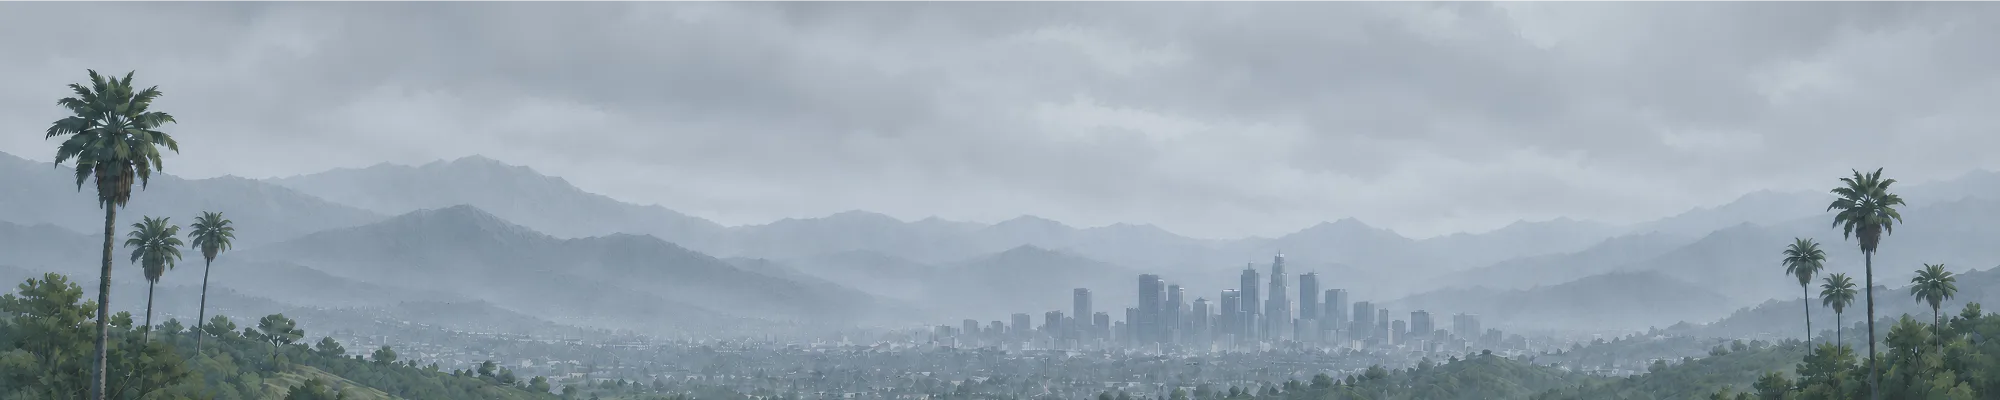
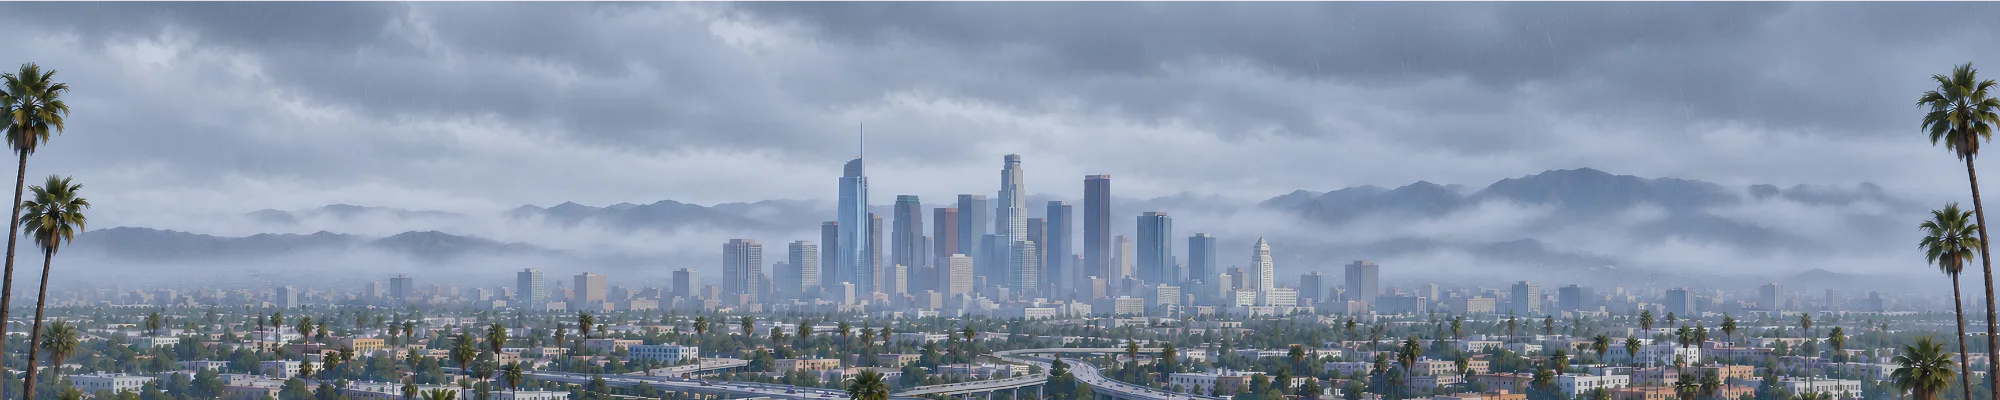
A dry grey day is Cloudy, not Rain; and a second Los Angeles pack that moves
MASTHEAD-CLOUDY-1 + MASTHEAD-LOSANGELES-2 (Owner, 2026-09-05).

The ninth scene. One hour in three in New York and San Francisco, one in
five in Los Angeles, is plain overcast with dry streets, and every pack
showed the Rain frame for it: painted wet streets, falling streaks and
lightning every eleven seconds. 'cloudy' is now an optional scene, like
CloudyNight, with a declared fallback to Rain, so a pack without the frame
shows exactly what it showed before. The weather rule splits in two:
overcast and fog are grey but dry (Cloudy by day, CloudyNight after dark);
drizzle, rain, showers, snow and thunder are wet (Rain by day, CloudyNight
after dark). The cloudy-night frame serves both, so the motion layer now
carries one weather fact, whether anything is falling, and after dark the
rain and the bolts run only while it is. The Rain scene is wet by
construction. "Cloudy" and "Overcast" in a filename mean the new scene; no
shipped pack had used either word.

The pack. Nine new 2000x400 frames (Cloudy and CloudyNight join) replace
the seven-frame first pack; old WebPs and archived PNGs removed, new ones
prepared and archived. One viewpoint on all nine: the basin from the
south-west, palms at both edges, downtown with the Wilshire Grand's spire at
x 42.7, the San Gabriels behind, the 110/101 interchange in front. Every
coordinate re-measured; default crop; CloudyNight is the Night drawing.

Night and cloudy night: fifty basin and downtown lights; red beacons on
[…]

diff --git a/src/index.css b/src/index.css
@@ -1907,6 +1907,8 @@ a.doc-file-link:hover { text-decoration: underline; }
 .mast-scene-morning .mast-scenery { --scn-r1: #D8E1F1; --scn-r2: #C2CFE7; --scn-r3: #A8B9D8; --scn-city: #AFC0DA; --scn-palm: #8DA2C2; --scn-lights: 0.1; --scn-stars: 0; }
 .mast-scene-goldenhour .mast-scenery { --scn-r1: #F0D3AC; --scn-r2: #E0B490; --scn-r3: #C2907C; --scn-city: #B08472; --scn-palm: #8A6656; --scn-lights: 0.2; --scn-stars: 0; }
 .mast-scene-rain .mast-scenery { --scn-r1: #CBD2D9; --scn-r2: #B4BDC7; --scn-r3: #97A2AF; --scn-city: #8E99A7; --scn-palm: #76828F; --scn-lights: 0.15; --scn-stars: 0; }
+/* MASTHEAD-CLOUDY-1: a dry overcast day, the rain palette a shade lighter. */
+.mast-scene-cloudy .mast-scenery { --scn-r1: #D2D8DF; --scn-r2: #BCC4CD; --scn-r3: #A0AAB6; --scn-city: #97A1AD; --scn-palm: #7E8A96; --scn-lights: 0.1; --scn-stars: 0; }
 
 /* Sky layers: all stay mounted; the active scene fades its own in. Each
    gradient is weighted center-right and top-right, and the shared mask keeps
@@ -1951,10 +1953,14 @@ a.doc-file-link:hover { text-decoration: underline; }
   background: radial-gradient(720px 300px at 66% 110%, rgba(148,160,176,0.30), transparent 74%),
     linear-gradient(115deg, rgba(238,241,245,0) 32%, rgba(168,178,192,0.34) 100%);
 }
+.mast-sky-cloudy {
+  background: radial-gradient(720px 300px at 66% 110%, rgba(160,170,184,0.26), transparent 74%),
+    linear-gradient(115deg, rgba(240,243,247,0) 32%, rgba(178,188,200,0.30) 100%);
+}
 .mast-scene-day .mast-sky-day, .mast-scene-sunset .mast-sky-sunset,
 .mast-scene-night .mast-sky-night, .mast-scene-dawn .mast-sky-dawn,
 .mast-scene-morning .mast-sky-morning, .mast-scene-goldenhour .mast-sky-goldenhour,
-.mast-scene-rain .mast-sky-rain,
+.mast-scene-rain .mast-sky-rain, .mast-scene-cloudy .mast-sky-cloudy,
 .mast-scene-cloudynight .mast-sky-cloudynight { opacity: 1; }
 
 /* The ridge/skyline/palm art. Same left-quiet mask; fills cross-fade as the
@@ -1998,7 +2004,7 @@ a.doc-file-link:hover { text-decoration: underline; }
 .mast-scene-day .mast-scn-img-day, .mast-scene-sunset .mast-scn-img-sunset,
 .mast-scene-night .mast-scn-img-night, .mast-scene-dawn .mast-scn-img-dawn,
 .mast-scene-morning .mast-scn-img-morning, .mast-scene-rain .mast-scn-img-rain,
-.mast-scene-goldenhour .mast-scn-img-goldenhour,
+.mast-scene-goldenhour .mast-scn-img-goldenhour, .mast-scene-cloudy .mast-scn-img-cloudy,
 .mast-scene-cloudynight .mast-scn-img-cloudynight { opacity: 1; }
 /* Dark page theme: soften the daylight artwork so the card doesn't glow;
    the night image already lives in the theme's register. */
@@ -2069,10 +2075,13 @@ a.doc-file-link:hover { text-decoration: underline; }
   96.0%     { opacity: 0; }
   100%      { opacity: 0; }
 }
+/* MASTHEAD-CLOUDY-1: the cloudy-night frame serves a dry overcast night too,
+   so after dark the storm runs only while the weather is wet (.mast-motion-wet,
+   from the shared weather query). The Rain scene is wet by construction. */
 .mast-scenic.mast-scene-rain .mast-motion-bolt-a,
-.mast-scenic.mast-scene-cloudynight .mast-motion-bolt-a { animation: mast-bolt 11s linear infinite; }
+.mast-scenic.mast-scene-cloudynight .mast-motion-wet .mast-motion-bolt-a { animation: mast-bolt 11s linear infinite; }
 .mast-scenic.mast-scene-rain .mast-motion-bolt-b,
-.mast-scenic.mast-scene-cloudynight .mast-motion-bolt-b { animation: mast-bolt 17s linear 4s infinite; }
+.mast-scenic.mast-scene-cloudynight .mast-motion-wet .mast-motion-bolt-b { animation: mast-bolt 17s linear 4s infinite; }
 
 /* ── SHIMMER. Each glow sits on a light already in the photograph and breathes
    on its own period, which is how haze actually treats distant lights. ── */
@@ -2272,9 +2281,9 @@ a.doc-file-link:hover { text-decoration: underline; }
 }
 @keyframes mast-drop { from { transform: translateY(0); } to { transform: translateY(440px); } }
 .mast-scenic.mast-scene-rain .mast-motion-rain,
-.mast-scenic.mast-scene-cloudynight .mast-motion-rain { opacity: 1; }
+.mast-scenic.mast-scene-cloudynight .mast-motion-wet .mast-motion-rain { opacity: 1; }
 .mast-scenic.mast-scene-rain .mast-motion-drop,
-.mast-scenic.mast-scene-cloudynight .mast-motion-drop {
+.mast-scenic.mast-scene-cloudynight .mast-motion-wet .mast-motion-drop {
   animation: mast-drop var(--dur, 0.9s) linear var(--dl, 0s) infinite;
 }
 
@@ -2300,7 +2309,8 @@ a.doc-file-link:hover { text-decoration: underline; }
   100% { transform: translateX(-13%); opacity: 0.30; }
 }
 .mast-scenic.mast-scene-day .mast-motion-haze,
-.mast-scenic.mast-scene-morning .mast-motion-haze {
+.mast-scenic.mast-scene-morning .mast-motion-haze,
+.mast-scenic.mast-scene-cloudy .mast-motion-haze {
   animation: mast-haze 64s ease-in-out infinite alternate;
 }
 
@@ -2326,11 +2336,13 @@ a.doc-file-link:hover { text-decoration: underline; }
 @keyframes mast-bob  { from { translate: 0 0; } to { translate: 0 2.2px; } }
 .mast-scenic.mast-scene-day .mast-motion-flock,
 .mast-scenic.mast-scene-morning .mast-motion-flock,
+.mast-scenic.mast-scene-cloudy .mast-motion-flock,
 .mast-scenic.mast-scene-dawn .mast-motion-flock {
   animation: mast-fly var(--cycle, 74s) linear infinite;
 }
 .mast-scenic.mast-scene-day .mast-motion-bird,
 .mast-scenic.mast-scene-morning .mast-motion-bird,
+.mast-scenic.mast-scene-cloudy .mast-motion-bird,
 .mast-scenic.mast-scene-dawn .mast-motion-bird {
   animation: mast-flap var(--flap, 0.45s) ease-in-out infinite alternate,
              mast-bob  var(--bob, 2.5s)  ease-in-out infinite alternate;
@@ -2421,7 +2433,8 @@ a.doc-file-link:hover { text-decoration: underline; }
   100% { transform: translateX(-13%); opacity: 0.58; }
 }
 .mast-scenic.mast-scene-day .mast-motion-haze-fog,
-.mast-scenic.mast-scene-morning .mast-motion-haze-fog {
+.mast-scenic.mast-scene-morning .mast-motion-haze-fog,
+.mast-scenic.mast-scene-cloudy .mast-motion-haze-fog {
   animation: mast-fog 64s ease-in-out infinite alternate;
 }
 
@@ -2450,6 +2463,7 @@ a.doc-file-link:hover { text-decoration: underline; }
 .mast-scenic.mast-scene-dawn .mast-motion-ferry,
 .mast-scenic.mast-scene-morning .mast-motion-ferry,
 .mast-scenic.mast-scene-day .mast-motion-ferry,
+.mast-scenic.mast-scene-cloudy .mast-motion-ferry,
 .mast-scenic.mast-scene-goldenhour .mast-motion-ferry,
 .mast-scenic.mast-scene-sunset .mast-motion-ferry,
 .mast-scenic.mast-scene-night .mast-motion-ferry {
@@ -2458,11 +2472,13 @@ a.doc-file-link:hover { text-decoration: underline; }
 .mast-scenic.mast-scene-dawn .mast-motion-ferry-hull,
 .mast-scenic.mast-scene-morning .mast-motion-ferry-hull,
 .mast-scenic.mast-scene-day .mast-motion-ferry-hull,
+.mast-scenic.mast-scene-cloudy .mast-motion-ferry-hull,
 .mast-scenic.mast-scene-goldenhour .mast-motion-ferry-hull,
 .mast-scenic.mast-scene-sunset .mast-motion-ferry-hull,
 .mast-scenic.mast-scene-dawn .mast-motion-ferry-wake,
 .mast-scenic.mast-scene-morning .mast-motion-ferry-wake,
 .mast-scenic.mast-scene-day .mast-motion-ferry-wake,
+.mast-scenic.mast-scene-cloudy .mast-motion-ferry-wake,
 .mast-scenic.mast-scene-goldenhour .mast-motion-ferry-wake,
 .mast-scenic.mast-scene-sunset .mast-motion-ferry-wake { opacity: 1; }
 .mast-scenic.mast-scene-night .mast-motion-ferry-lamp { opacity: 1; }
@@ -2524,6 +2540,7 @@ a.doc-file-link:hover { text-decoration: underline; }
 }
 .mast-scenic.mast-scene-day .mast-motion-steam,
 .mast-scenic.mast-scene-morning .mast-motion-steam,
+.mast-scenic.mast-scene-cloudy .mast-motion-steam,
 .mast-scenic.mast-scene-dawn .mast-motion-steam,
 .mast-scenic.mast-scene-goldenhour .mast-motion-steam,
 .mast-scenic.mast-scene-sunset .mast-motion-steam,
@@ -2991,7 +3008,7 @@ a.doc-file-link:hover { text-decoration: underline; }
 .mast-scene-dawn .wx-mast-art::before, .mast-scene-day .wx-mast-art::before,
 .mast-scene-sunset .wx-mast-art::before, .mast-scene-night .wx-mast-art::before,
 .mast-scene-morning .wx-mast-art::before, .mast-scene-goldenhour .wx-mast-art::before,
-.mast-scene-rain .wx-mast-art::before { opacity: 0; }
+.mast-scene-rain .wx-mast-art::before, .mast-scene-cloudy .wx-mast-art::before { opacity: 0; }
 @media (prefers-reduced-motion: reduce) { .wx-mast-art::before { transition: none; } }
 .wx-mast-temp { font-size: 27px; font-weight: 700; color: var(--chart-ink, #191919); letter-spacing: -0.01em; line-height: 1.05; }
 .wx-mast-cond { font-size: 13px; font-weight: 600; color: var(--chart-ink, #191919); margin-top: 1px; }

diff --git a/src/lib/mastheadCityScenes.js b/src/lib/mastheadCityScenes.js
@@ -24,7 +24,10 @@ const SCENE_WORDS = {
   goldenhour: 'goldenhour', golden: 'goldenhour',
   sunset: 'sunset', dusk: 'sunset', evening: 'sunset',
   night: 'night',
-  rain: 'rain', rainy: 'rain', cloudy: 'rain', overcast: 'rain', storm: 'rain',
+  rain: 'rain', rainy: 'rain', storm: 'rain',
+  // MASTHEAD-CLOUDY-1: a dry overcast day is its own optional scene now.
+  // "Cloudy" used to be a synonym of Rain; no shipped pack used the word.
+  cloudy: 'cloudy', overcast: 'cloudy',
   // MASTHEAD-CLOUDY-NIGHT: the same weather after dark. Listed before nothing
   // else matters, but note the parser tries the LONGEST trailing token run
   // first, so "CloudyNight" resolves here rather than as bare "night".
@@ -42,6 +45,7 @@ const SCENE_WORDS = {
 //   folder   the city's common name, PascalCase, no spaces or punctuation
 //   file     <Folder>_<Scene>.webp
 //   scenes   Dawn · Morning · Day · GoldenHour · Sunset · Night · Rain
+//            (optional: CloudyNight, Cloudy)
 //
 // The canonical key is that folder name lowercased: losangeles, lasvegas,
 // newyork, sanfrancisco, atlanta. It is what CITY_COORDS, CITY_SKY_X and
@@ -359,22 +363,69 @@ export const CITY_MOTION = {
     },
   },
   losangeles: {
-    // The basin is a carpet of light, which is the best possible case for this.
+    // MASTHEAD-LOSANGELES-2 (2026-09-05): the second Los Angeles pack (nine
+    // frames, Cloudy joined) replaced the first, so EVERY coordinate here was
+    // re-measured (scratchpad nymeasure.mjs, gridzoom.py). One viewpoint on all
+    // nine: the basin from the south-west, palms at both edges, downtown at
+    // x 36-66 with the Wilshire Grand's spire at x 42.7, the San Gabriels
+    // behind, the 110/101 interchange in front. Default crop (the spire stays
+    // under the top edge). CloudyNight is the same drawing as Night.
+    //
+    // Night: downtown's windows and crowns, then the basin's carpet of light.
     lights: [
-      [55.5, 90.9], [67.9, 88.5], [76.4, 88.2], [49.1, 98.2], [61.9, 71.4],
-      [46.9, 87.0], [61.9, 89.1], [81.0, 93.5], [58.7, 90.3], [52.3, 88.8],
-      [71.2, 87.9], [67.3, 71.4], [57.5, 68.7], [51.4, 78.5],
-      // MASTHEAD-LOCKSCREEN-1: the left third of the basin carpet.
-      [21.3, 90.9], [26.4, 93.5], [30.0, 87.9], [31.4, 98.5], [34.8, 97.4],
-      [35.1, 86.7], [42.0, 87.3], [45.6, 87.9],
+      [55.4, 34.8], [48.6, 46.6], [42.4, 45.4], [50.3, 32.5], [68.2, 60.5],
+      [50.8, 44.0], [71.5, 67.3], [51.6, 59.0], [36.9, 55.5], [50.0, 67.8],
+      [61.2, 63.7], [53.1, 67.3], [64.2, 67.8], [28.2, 68.1], [53.3, 47.8],
+      [58.9, 70.2], [40.2, 55.2], [55.0, 53.7], [56.1, 64.9], [45.1, 51.6],
+      [48.8, 57.8], [57.8, 46.0], [37.1, 69.0], [57.3, 57.8], [42.1, 55.8],
+      [34.4, 62.8], [67.2, 68.7], [34.9, 71.1], [40.1, 68.4], [46.6, 61.7],
+      // The basin, off the two freeway rails.
+      [60.1, 95.6], [80.8, 95.6], [37.0, 81.7], [72.2, 96.5], [45.5, 89.1],
+      [10.8, 82.9], [23.9, 68.1], [31.3, 86.1], [20.0, 88.8], [48.5, 94.1],
+      [67.2, 78.5], [60.1, 74.6], [27.3, 90.9], [42.1, 95.6], [34.2, 99.1],
+      [70.5, 75.5], [53.5, 84.1], [6.3, 79.1], [66.8, 87.9], [19.1, 69.3],
     ],
-    // Two crowns, because downtown LA really is dominated by two towers.
-    beacons: [[62.5, 62.2], [64.4, 66.4]],
-    // East to west over downtown, the way an approach actually runs. It leaves
-    // the frame before the cycle repeats, so the loop has no seam to hide. The
-    // cycle is flight / VISIBLE (MastheadMotion), so the sky is empty ~59% of
-    // the time; there is deliberately no per-city cycle to disagree with that.
-    aircraft: { y: 21, from: 97, to: 33, flight: 34 },
+    // Aviation red on the crowns: the US Bank tower's (rgb 252,38,6 at card y
+    // 35.7), the towers at x 58, 41.6 and 40, City Hall's neighbour, and the
+    // Wilshire corridor's mid-rise crowns out to the west and east.
+    beacons: [
+      [54.4, 35.7], [58.3, 46.0], [41.6, 48.7], [40.0, 54.3], [59.9, 51.9],
+      [68.7, 60.8], [29.9, 64.0], [34.2, 62.2], [26.4, 62.2], [84.1, 67.8],
+      [88.8, 66.7], [18.2, 69.6], [4.5, 72.6],
+    ],
+    beaconTone: 'red',
+    // Steam off three lit rooftops (first lit row of each column), the block
+    // west of the towers and two mid-rises east of them, the ridge behind.
+    steam: [[38.0, 55.2], [52.0, 50.2], [60.0, 51.9]],
+    // The interchange. The first pack refused traffic on the curves; this
+    // frame's elevated run in front of the basin (x 26-42) and the ramp that
+    // drops off it (x 48.5-56.5) are straight enough, traced light by light
+    // (+-1.5% band). A police car works the long run.
+    bridge: [
+      {
+        lights: [[27.0, 90.6], [31.0, 90.6], [35.5, 90.6], [37.5, 89.7], [40.0, 88.2], [41.5, 89.4]],
+        deck: { x: 26, y: 91.6, w: 16, rise: -2.4 },
+        police: true,
+      },
+      {
+        lights: [[49.0, 91.5], [50.5, 92.6], [52.0, 92.6], [55.0, 95.9]],
+        deck: { x: 48.5, y: 90.5, w: 8, rise: 6 },
+      },
+    ],
+    // East to west over downtown, the way the LAX approach actually runs;
+    // the sky is clear above card y 25 between the palms (which reach the
+    // top at both edges), so everything flies inside x 6-94.
+    aircraft: { y: 21, from: 94, to: 33, flight: 34 },
+    birds: { y: 30, from: 94, to: 60, flight: 30, count: 6 },
+    // An LAPD helicopter low over the basin at sunset, west to east.
+    helicopter: { y: 36, from: 8, to: 62, flight: 46 },
+    // The basin's smog, between the mountains' base (card y 42-50) and the
+    // mid-rise band; warm-grey, the default tone, which is what the basin is.
+    haze: { y: 48, height: 16 },
+    // The golden-hour sun is OFF-FRAME LEFT (left edge brightest at card y
+    // 8%; sky column means peak at x 10 and fall to the right).
+    flare: { x: -6, y: 8 },
+    rainfall: true,
   },
   sanfrancisco: {
     // MASTHEAD-SANFRANCISCO-2 (2026-09-04): the second San Francisco pack

diff --git a/src/lib/mastheadScene.js b/src/lib/mastheadScene.js
@@ -31,8 +31,12 @@ export const SCENES = ['dawn', 'morning', 'day', 'goldenhour', 'sunset', 'night'
 // making it required would have made all of them incomplete overnight. Each
 // optional scene declares what it falls back to, so a pack without it still
 // renders something true rather than nothing at all.
-export const OPTIONAL_SCENES = ['cloudynight']
-export const SCENE_FALLBACK = { cloudynight: 'night' }
+// MASTHEAD-CLOUDY-1 (Owner, 2026-09-05): 'cloudy', a dry overcast day. One
+// hour in three in New York and San Francisco is plain grey with dry streets,
+// and every pack showed the Rain frame for it. A pack without a Cloudy frame
+// falls back to Rain, which is exactly what it showed before.
+export const OPTIONAL_SCENES = ['cloudynight', 'cloudy']
+export const SCENE_FALLBACK = { cloudynight: 'night', cloudy: 'rain' }
 
 /** Every scene that can be rendered, required and optional together. */
 export const ALL_SCENES = [...SCENES, ...OPTIONAL_SCENES]
@@ -115,12 +119,24 @@ export function sceneForTime(now = new Date(), sun = null) {
   return 'night'
 }
 
-/** WMO codes that swap the daytime artwork for the Rain scene: rain, drizzle,
- *  freezing rain, showers, thunderstorms, snow (LA courtesy), full overcast,
- *  and fog. Partly cloudy (1-2) deliberately keeps the time-of-day scene. */
+/** WMO codes that take the time-of-day artwork away: everything in isWetCode
+ *  plus full overcast and fog. Partly cloudy (1-2) deliberately keeps the
+ *  time-of-day scene. */
 export function isRainyCode(code) {
+  return isOvercastCode(code) || isWetCode(code)
+}
+
+/** Overcast or fog: grey, but nothing is falling. By day this is the Cloudy
+ *  scene (or its Rain fallback); after dark the CloudyNight frame, without the
+ *  rain and lightning the wet codes bring. */
+export function isOvercastCode(code) {
+  return code === 3 || code === 45 || code === 48
+}
+
+/** Something is falling: drizzle, rain, freezing rain, showers, snow (LA
+ *  courtesy) and thunderstorms. Rain and lightning motion run only on these. */
+export function isWetCode(code) {
   if (code == null) return false
-  if (code === 3 || code === 45 || code === 48) return true
   if (code >= 51 && code <= 67) return true
   if (code >= 71 && code <= 77) return true
   if ((code >= 80 && code <= 86) || (code >= 95 && code <= 99)) return true
@@ -135,5 +151,8 @@ export function isRainyCode(code) {
  *  safe for every city whether or not it has the extra artwork. */
 export function artSceneFor(clockScene, weatherCode) {
   if (!isRainyCode(weatherCode)) return clockScene
-  return clockScene === 'night' ? 'cloudynight' : 'rain'
+  if (clockScene === 'night') return 'cloudynight'
+  // MASTHEAD-CLOUDY-1: a dry grey day is Cloudy, not Rain. A pack without the
+  // frame shows Rain through SCENE_FALLBACK, as it always did.
+  return isWetCode(weatherCode) ? 'rain' : 'cloudy'
 }

diff --git a/src/components/WeatherScene.jsx b/src/components/WeatherScene.jsx
@@ -13,7 +13,7 @@ import { useEffect, useMemo, useState } from 'react'
 import { useQuery } from '@tanstack/react-query'
 import { sceneAssets } from '../lib/weatherAssetMap'
 import { useWeatherLocation } from '../lib/weatherLocation'
-import { sceneForTime, sunTimesFrom, artSceneFor, ALL_SCENES, isNightScene } from '../lib/mastheadScene'
+import { sceneForTime, sunTimesFrom, artSceneFor, ALL_SCENES, isNightScene, isWetCode } from '../lib/mastheadScene'
 import { parseSceneFiles, injectedSceneFiles, resolvePack, skyPositionFor, CITY_COORDS } from '../lib/mastheadCityScenes'
 import { cityOptions, cityWeatherLocation } from '../lib/mastheadCityPreference'
 import { useCityPreference } from './masthead/useCityPreference'
@@ -271,8 +271,16 @@ export function useMastheadScene() {
     const o = localStorage.getItem('aspire_scene_override_v1')
     if (ALL_SCENES.includes(o)) scene = o
   } catch { /* storage unavailable: the live clock wins */ }
+  // MASTHEAD-CLOUDY-1: whether anything is FALLING. The cloudy-night frame
+  // serves both a dry overcast night and a storm; rain and lightning run only
+  // when the weather is wet. QA override: aspire_wet_override_v1 = '1' | '0'.
+  let wet = isWetCode(data?.code)
+  try {
+    const w = localStorage.getItem('aspire_wet_override_v1')
+    if (w === '1' || w === '0') wet = w === '1'
+  } catch { /* storage unavailable: the weather wins */ }
   // Night treatment follows every night scene, clear or clouded.
-  return { scene, night: isNightScene(scene) }
+  return { scene, night: isNightScene(scene), wet }
 }
 
 // MASTHEAD-NIGHT-1 → MASTHEAD-SCENE-1: night now follows the unified scene

diff --git a/src/components/masthead/MastheadMotion.jsx b/src/components/masthead/MastheadMotion.jsx
@@ -32,6 +32,7 @@
 // MASTHEAD-ATLANTA-2 added a police car: a span with police: true runs one
 // more vehicle whose lights flip red and blue as it goes.
 import { CITY_MOTION } from '../../lib/mastheadCityScenes'
+import { useMastheadScene } from '../WeatherScene'
 
 // Coprime-ish periods so a row of lights never visibly pulses in unison.
 const PERIODS = [3.1, 4.3, 5.7, 3.7, 6.1, 4.9, 3.3, 5.3, 4.1, 6.7, 3.9, 5.9, 4.7]
@@ -110,6 +111,10 @@ function crossing(c) {
 }
 
 export default function MastheadMotion({ city }) {
+  // MASTHEAD-CLOUDY-1: the one weather fact this component reads. The scene
+  // class says which frame is up; this says whether anything is falling, so
+  // a dry overcast night keeps its cloudy frame without rain or lightning.
+  const { wet } = useMastheadScene()
   const m = CITY_MOTION[city]
   if (!m) return null
   const { lights, beacons, beaconTone, aircraft, water, bridge, beam,
@@ -145,7 +150,7 @@ export default function MastheadMotion({ city }) {
   const flareRight = !!flare && flare.x > 50
   const flareX = flareRight ? 100 - flare.x : flare?.x
   return (
-    <div className="mast-motion" aria-hidden>
+    <div className={`mast-motion${wet ? ' mast-motion-wet' : ''}`} aria-hidden>
       {/* Two bolts on different periods, so the storm does not tick like a
           metronome. Both sit right of centre: a flash over the greeting would
           fight the text, the same contract the artwork's left fade honours. */}

diff --git a/src/components/MastheadScenery.jsx b/src/components/MastheadScenery.jsx
@@ -92,6 +92,7 @@ export default function MastheadScenery() {
       <div className="mast-sky mast-sky-night" />
       <div className="mast-sky mast-sky-cloudynight" />
       <div className="mast-sky mast-sky-rain" />
+      <div className="mast-sky mast-sky-cloudy" />
       {/* The SVG ridge art renders beneath a PARTIAL pack so a missing scene
           still shows artwork; a complete pack replaces it. */}
       {!complete && <SvgScenery />}
